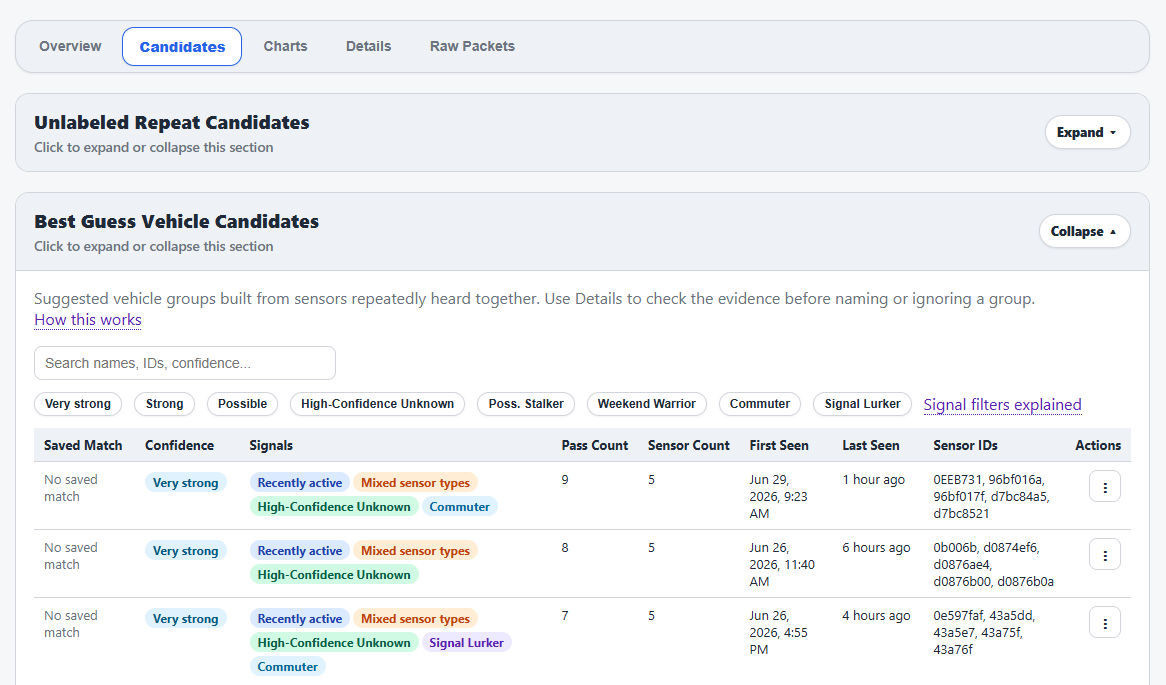
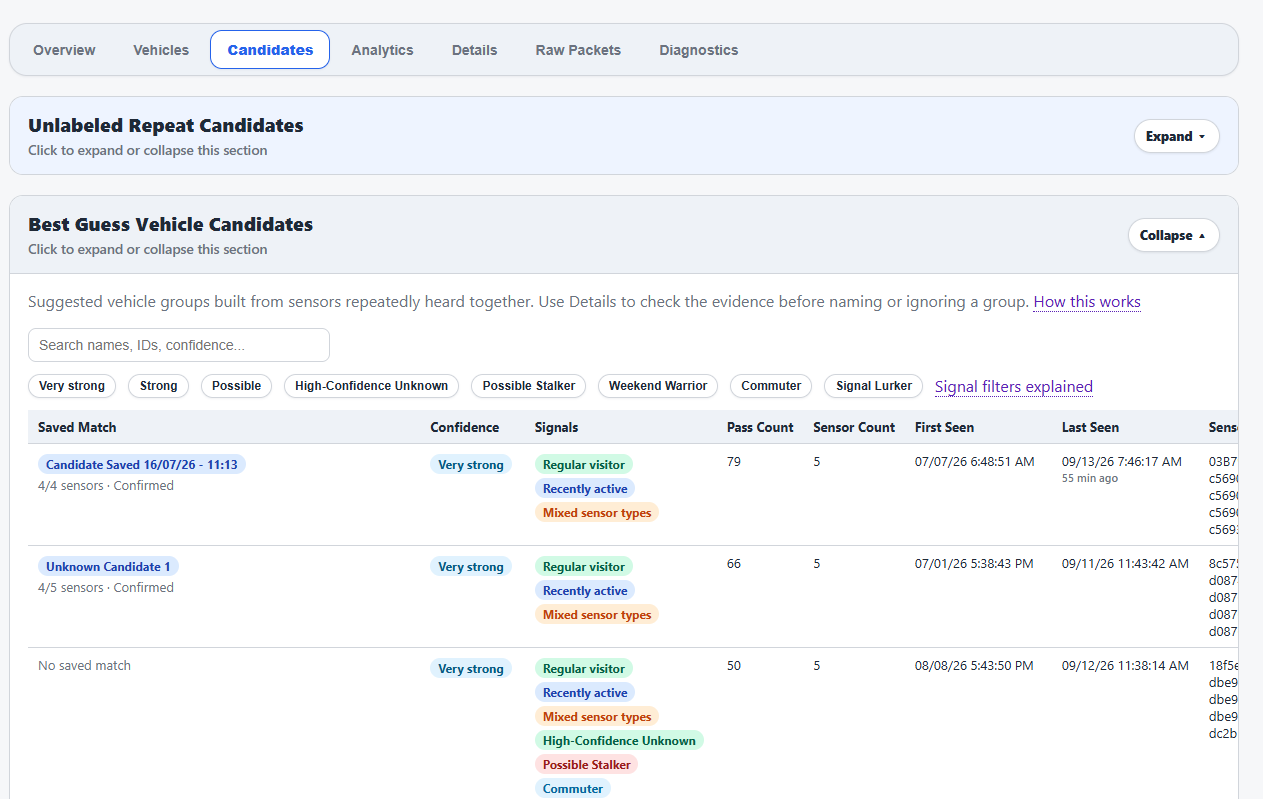
``` feat: release TireSignal 1.0.0 with presence, analytics, and improved candidate detection
- Add persistent TPMS event monitoring with SQLite storage and configurable retention
- Add presence timeline and 7-day traffic heatmap for security and traffic awareness
- Add Analytics tab with event, signal, and TPMS field charts
- Add vehicle labeling workflows for Known, Watchlist, and Ignored sensors
- Add Candidates tab with exact-repeat and overlap detection for recurring unlabeled sensors
- Add Diagnostics tab with import/pruning stats and health checks
- Reorganize report into 7 tabs: Overview, Vehicles, Candidates, Analytics, Details, Raw Packets, Diagnostics
- Replace quadratic overlap clustering with indexed lookups for better scalability
- Improve refresh UX with loading spinner and explicit in-progress/completion messaging
- Update README and DOCS with new features and report organization
```

diff --git a/README.md b/README.md
@@ -4,17 +4,18 @@
 
 # TireSignal
 
-TireSignal is a Home Assistant add-on for `rtl_433` TPMS JSONL logs. It imports tire-pressure sensor events, groups likely vehicle passes, helps identify known, watch, and unknown sensors, and produces a Home Assistant-friendly report for reviewing activity and labeling vehicles.
+TireSignal is a Home Assistant add-on for `rtl_433` TPMS JSONL logs. It imports tire-pressure sensor events, groups likely vehicle passes, and helps you label sensors as Known, Watchlist, or Ignored vehicles while surfacing recurring unlabeled sensor groups as candidates worth reviewing, all through a Home Assistant-friendly report.
 
 ## Features
 
-* Reads `rtl_433` JSONL log output.
-* Stores TPMS events in SQLite with deduplication.
-* Groups nearby detections into likely vehicle passes.
-* Matches sensors against known, watch, and ignored vehicles.
-* Provides report UI controls for vehicle labeling.
-* Serves the report through Home Assistant Ingress/sidebar.
-* Supports direct web access on port `8099` when exposed.
+* Reads `rtl_433` JSONL log output and stores TPMS events in SQLite with deduplication and configurable retention.
+* Groups nearby detections into likely vehicle passes and surfaces exact-repeat and overlap candidates for recurring unlabeled sensors.
+* Lets you label sensors as Known, Watchlist, or Ignored vehicles.
+* Presence timeline and 7-day traffic heatmap for home-security and traffic-awareness use cases.
+* Analytics tab with event, signal, and decoded TPMS field charts.
+* Diagnostics tab with import/pruning stats and report & database health.
+* Recent Events, Recent Passes, and Raw Packets views for deeper investigation.
+* Serves the report through Home Assistant Ingress/sidebar, with direct web access on port `8099` when exposed.
 * Runs manual and scheduled refreshes inside the add-on.
 
 ![TireSignal report screenshot](assets/tiresignal-report-screenshot.png)
@@ -91,9 +92,18 @@ These options are safe to leave at their defaults for most installs.
 * Open the report from the Home Assistant sidebar or **Open Web UI**.
 * Click **Refresh** in the report to rerun analysis.
 * Use the report labeling controls to add sensors to the vehicle map.
-* Review the **Candidates** tab to identify unknown or repeated sensor groups. Use the row action menu (`⋮`) on each row to label, ignore, move, or inspect candidates. Mixed sensor type warnings are informational only and do not affect scoring.
 * Leave scheduled refresh enabled to refresh the report daily.
 * Direct access is available on port `8099` when exposed by the add-on configuration.
+
+### Report tabs
+
+* **Overview** — summary cards, presence overview, presence timeline, and traffic heatmap.
+* **Vehicles** — manage Known, Watchlist, and Ignored vehicles.
+* **Candidates** — review exact-repeat and overlap candidates that may point to a recurring unlabeled vehicle. Use the row action menu (`⋮`) on each row to label, ignore, move, or inspect candidates. Mixed sensor type warnings are informational only and do not affect scoring.
+* **Analytics** — event, signal, and decoded TPMS field charts.
+* **Details** — Recent Passes, sensor summaries, and Recent Events.
+* **Raw Packets** — recent rtl_433 log entries for troubleshooting.
+* **Diagnostics** — import/pruning stats and report & database health.
 
 ## Endpoints
 

diff --git a/tpms_analyzer/CHANGELOG.md b/tpms_analyzer/CHANGELOG.md
@@ -1,5 +1,39 @@
 # Changelog
 
+## 1.0.0
+
+### Added
+
+- Added persistent TPMS event monitoring from rtl_433 logs with SQLite history and configurable retention/pruning.
+- Added vehicle pass detection and recurring-signal candidate analysis, including exact-repeat and overlap candidates.
+- Added workflows for managing Known, Watchlist, and Ignored vehicles with editable names and notes.
+- Added a Candidate Details drawer with sensor, pass, model, protocol, pressure, and signal-quality information.
+- Added presence and traffic analysis with a 24-hour presence timeline, 7-day traffic heatmap, and recent presence activity.
+- Added Analytics for event volume, signal quality, temperature, battery-related signals, and decoded TPMS fields.
+- Added Recent Events, Recent Passes, Raw Packets, Vehicles, and Diagnostics views for deeper investigation and system visibility.
+- Added Report & Database Health diagnostics alongside import and pruning statistics.
+- Added Home Assistant Ingress support, scheduled refreshes, and configurable add-on behavior.
+
+### Changed
+
+- Refined TireSignal's report organization into Overview, Vehicles, Candidates, Analytics, Details, Raw Packets, and Diagnostics.
+- Improved timestamps, candidate naming, row actions, dialogs, and vehicle-management workflows throughout the report.
+- Improved the manual report refresh experience with a visible loading spinner, clear in-progress and completion messaging, and explicit feedback when another refresh is already running or a refresh fails.
+
+### Performance
+
+- Replaced quadratic overlap-candidate clustering with indexed sensor-to-cluster lookups for substantially better scalability.
+- Added event-time indexing and avoided unnecessary SQLite VACUUM operations when pruning removes no events.
+- Reduced refresh memory usage by retaining only the decoded raw-event fields needed by analytics and reporting.
+- Combined daily and hourly aggregation work and replaced repeated datetime formatting with direct component formatting.
+- Reduced report-generation work by building timeline data only for the retained timeline window instead of processing the full event history.
+
+### Reliability
+
+- Improved refresh behavior under Home Assistant Ingress and remote access paths.
+- Ensured full-history event-volume analytics remain accurate when viewing all-time data.
+- Corrected pruning transaction ordering so deletions are committed safely before SQLite VACUUM runs.
+
 ## 0.3.34
 
 ### Changed

diff --git a/tpms_analyzer/DOCS.md b/tpms_analyzer/DOCS.md
@@ -2,7 +2,7 @@
 
 ## Overview
 
-TireSignal is a persistent Home Assistant add-on service for `rtl_433` TPMS JSONL logs. It imports tire-pressure sensor events, groups likely vehicle passes, helps identify known, watch, and unknown sensors, and serves a Home Assistant-friendly report through Ingress/sidebar or direct access on port `8099` when exposed.
+TireSignal is a persistent Home Assistant add-on service for `rtl_433` TPMS JSONL logs. It imports tire-pressure sensor events, groups likely vehicle passes, and helps you label sensors as Known, Watchlist, or Ignored vehicles while surfacing recurring unlabeled sensor groups as candidates worth reviewing. It serves a Home Assistant-friendly report through Ingress/sidebar or direct access on port `8099` when exposed.
 
 ## rtl_433 requirement
 
@@ -49,8 +49,17 @@ These options are safe to leave at their defaults for most installs.
 * Open TireSignal from the Home Assistant sidebar or click **Open Web UI** on the add-on page.
 * Click **Refresh** in the report for manual analysis.
 * Use the report vehicle-labeling controls to add or update sensor labels.
-* Review the Candidates tab to identify unknown or repeated sensor groups. Use the row action menu (`⋮`) on each row to add a candidate to the watch list, ignore it, move a saved match, or inspect details when available.
 * Leave scheduled refresh enabled to refresh the report daily.
+
+The report is organized into tabs:
+
+* **Overview** — summary cards plus presence and traffic overview, including the presence timeline and traffic heatmap.
+* **Vehicles** — manage Known, Watchlist, and Ignored vehicles.
+* **Candidates** — review exact-repeat and overlap candidates that may point to a recurring unlabeled vehicle. Use the row action menu (`⋮`) on each row to add a candidate to the watchlist, ignore it, move a saved match, or inspect details when available.
+* **Analytics** — event, signal, and decoded TPMS field charts.
+* **Details** — Recent Passes, sensor summaries, and Recent Events.
+* **Raw Packets** — recent rtl_433 log entries for troubleshooting.
+* **Diagnostics** — import/pruning stats and report & database health.
 
 ## Endpoints
 
